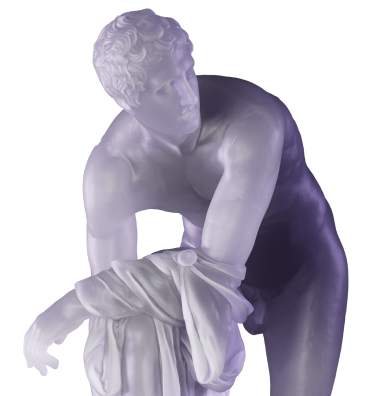
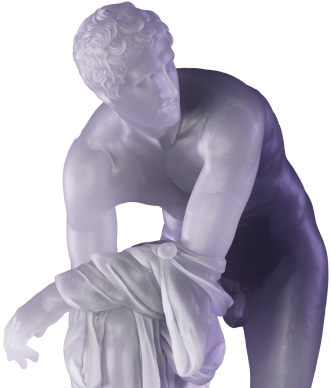
mobile copy trader welcome

diff --git a/src/app/CopyTradeWelcome/_copyTradeWelcome.scss b/src/app/CopyTradeWelcome/_copyTradeWelcome.scss
@@ -125,9 +125,8 @@
         }
         .ctwpbtwor-greek-man-shadow-container {
           height: 47rem;
-          //   background-color: red;
           transform: rotateY(180deg);
-          margin-left: -7.5rem;
+          margin-left: -0.4rem;
           .ctwpbtwor-greek-man-shadow-gradient {
             background: linear-gradient(
               90deg,
@@ -262,25 +261,117 @@
   margin-left: -2rem;
   margin-top: 2rem;
   .copy-trade-welcome-page {
+    .copy-trade-welcome-button {
+      padding: 1.7rem 4.5rem;
+    }
+    .ctwp-block {
+      min-width: unset;
+      height: unset;
+    }
     .ctwp-block-one {
       flex-direction: column;
-      min-width: unset;
+      padding-top: 1rem;
       .ctwpbo-left {
         width: 100%;
         align-items: center;
+        padding: 0rem;
+
         .ctwpbol-header {
           text-align: center;
         }
         .ctwpbol-desc {
           text-align: center;
-          margin: 2rem 0rem;
-        }
-        .copy-trade-welcome-button {
-          padding: 2rem 4rem;
+          margin: 1.5rem 0rem;
         }
       }
       .ctwpbo-right {
         width: 100%;
+        padding-top: 1.5rem;
+        .ctwpbor-greek-man {
+          height: unset;
+          width: 100%;
+        }
+      }
+    }
+    .ctwp-block-two {
+      flex-direction: column-reverse;
+
+      .ctwpbtwo-left {
+        width: 100%;
+        height: unset;
+
+        .ctwpbtwor-greek-man {
+          width: 50%;
+          height: unset;
+        }
+        .ctwpbtwor-greek-man-shadow-container {
+          height: unset;
+          width: 50%;
+          .ctwpbtwor-greek-man-shadow {
+            width: 100%;
+          }
+        }
+      }
+      .ctwpbtwo-right {
+        width: 100%;
+        padding-top: 4rem;
+        padding-bottom: 2rem;
+        .ctwpbtwor-title {
+          text-align: center;
+        }
+      }
+    }
+    .ctwp-block-three {
+      .ctwpbo-left {
+        padding-top: 4rem;
+        padding-bottom: 2rem;
+        .ctwpbothird-header {
+          text-align: center;
+        }
+      }
+      .ctwpbo-right {
+        padding: 0rem 2rem;
+        .ctwpbor-greek-man {
+          height: unset;
+          width: 100%;
+        }
+      }
+    }
+    .ctwp-block-four {
+      .ctwpbf-loch {
+        height: unset;
+        width: 90%;
+      }
+      .ctwpbf-content {
+        justify-content: center;
+        padding: 0rem 7rem;
+        .ctwpbofour-header {
+          text-align: center;
+        }
+        .ctwpbofour-desc {
+          text-align: center;
+          margin: 1.5rem 0rem;
+        }
+      }
+    }
+    .ctwp-block-five {
+      padding-top: 2rem;
+      .ctwpbofive-image {
+        width: 60%;
+        .ctwpbfive-loch {
+          height: 100%;
+        }
+      }
+      .ctwpbofive-content-container {
+        width: 60vw;
+        margin-left: -10vw;
+        padding-right: 1rem;
+        .ctwpbofive-content {
+          .ctwpbofive-header {
+            font-size: 12px;
+            text-align: right;
+          }
+        }
       }
     }
   }

diff --git a/src/app/CopyTradeWelcome/CopyTradeMobileWelcome.js b/src/app/CopyTradeWelcome/CopyTradeMobileWelcome.js
@@ -1,10 +1,6 @@
 import React, { Component } from "react";
-import { connect } from "react-redux";
-import { mobileCheck, openLoginPopUp } from "../../utils/ReusableFunctions.js";
-import MobileLayout from "../layout/MobileLayout.js";
-import WelcomeCard from "../Portfolio/WelcomeCard.js";
-import "./_copyTradeWelcome.scss";
 import { Image } from "react-bootstrap";
+import { connect } from "react-redux";
 import {
   GreekOne,
   GreekThree,
@@ -12,6 +8,8 @@ import {
   LochBigLogoCopyTradeWelcome,
   WhaleTail,
 } from "../../assets/images/index.js";
+import { openLoginPopUp } from "../../utils/ReusableFunctions.js";
+import "./_copyTradeWelcome.scss";
 
 class CopyTradeMobileWelcome extends Component {
   constructor(props) {

diff --git a/src/app/CopyTradeWelcome/CopyTradeWelcome.js b/src/app/CopyTradeWelcome/CopyTradeWelcome.js
@@ -28,6 +28,7 @@ class CopyTradeWelcome extends Component {
           isSidebarClosed={this.props.isSidebarClosed}
           currentPage={"insights"}
           hideAddresses
+          hideFooter
         >
           <CopyTradeMobileWelcome />
         </MobileLayout>
